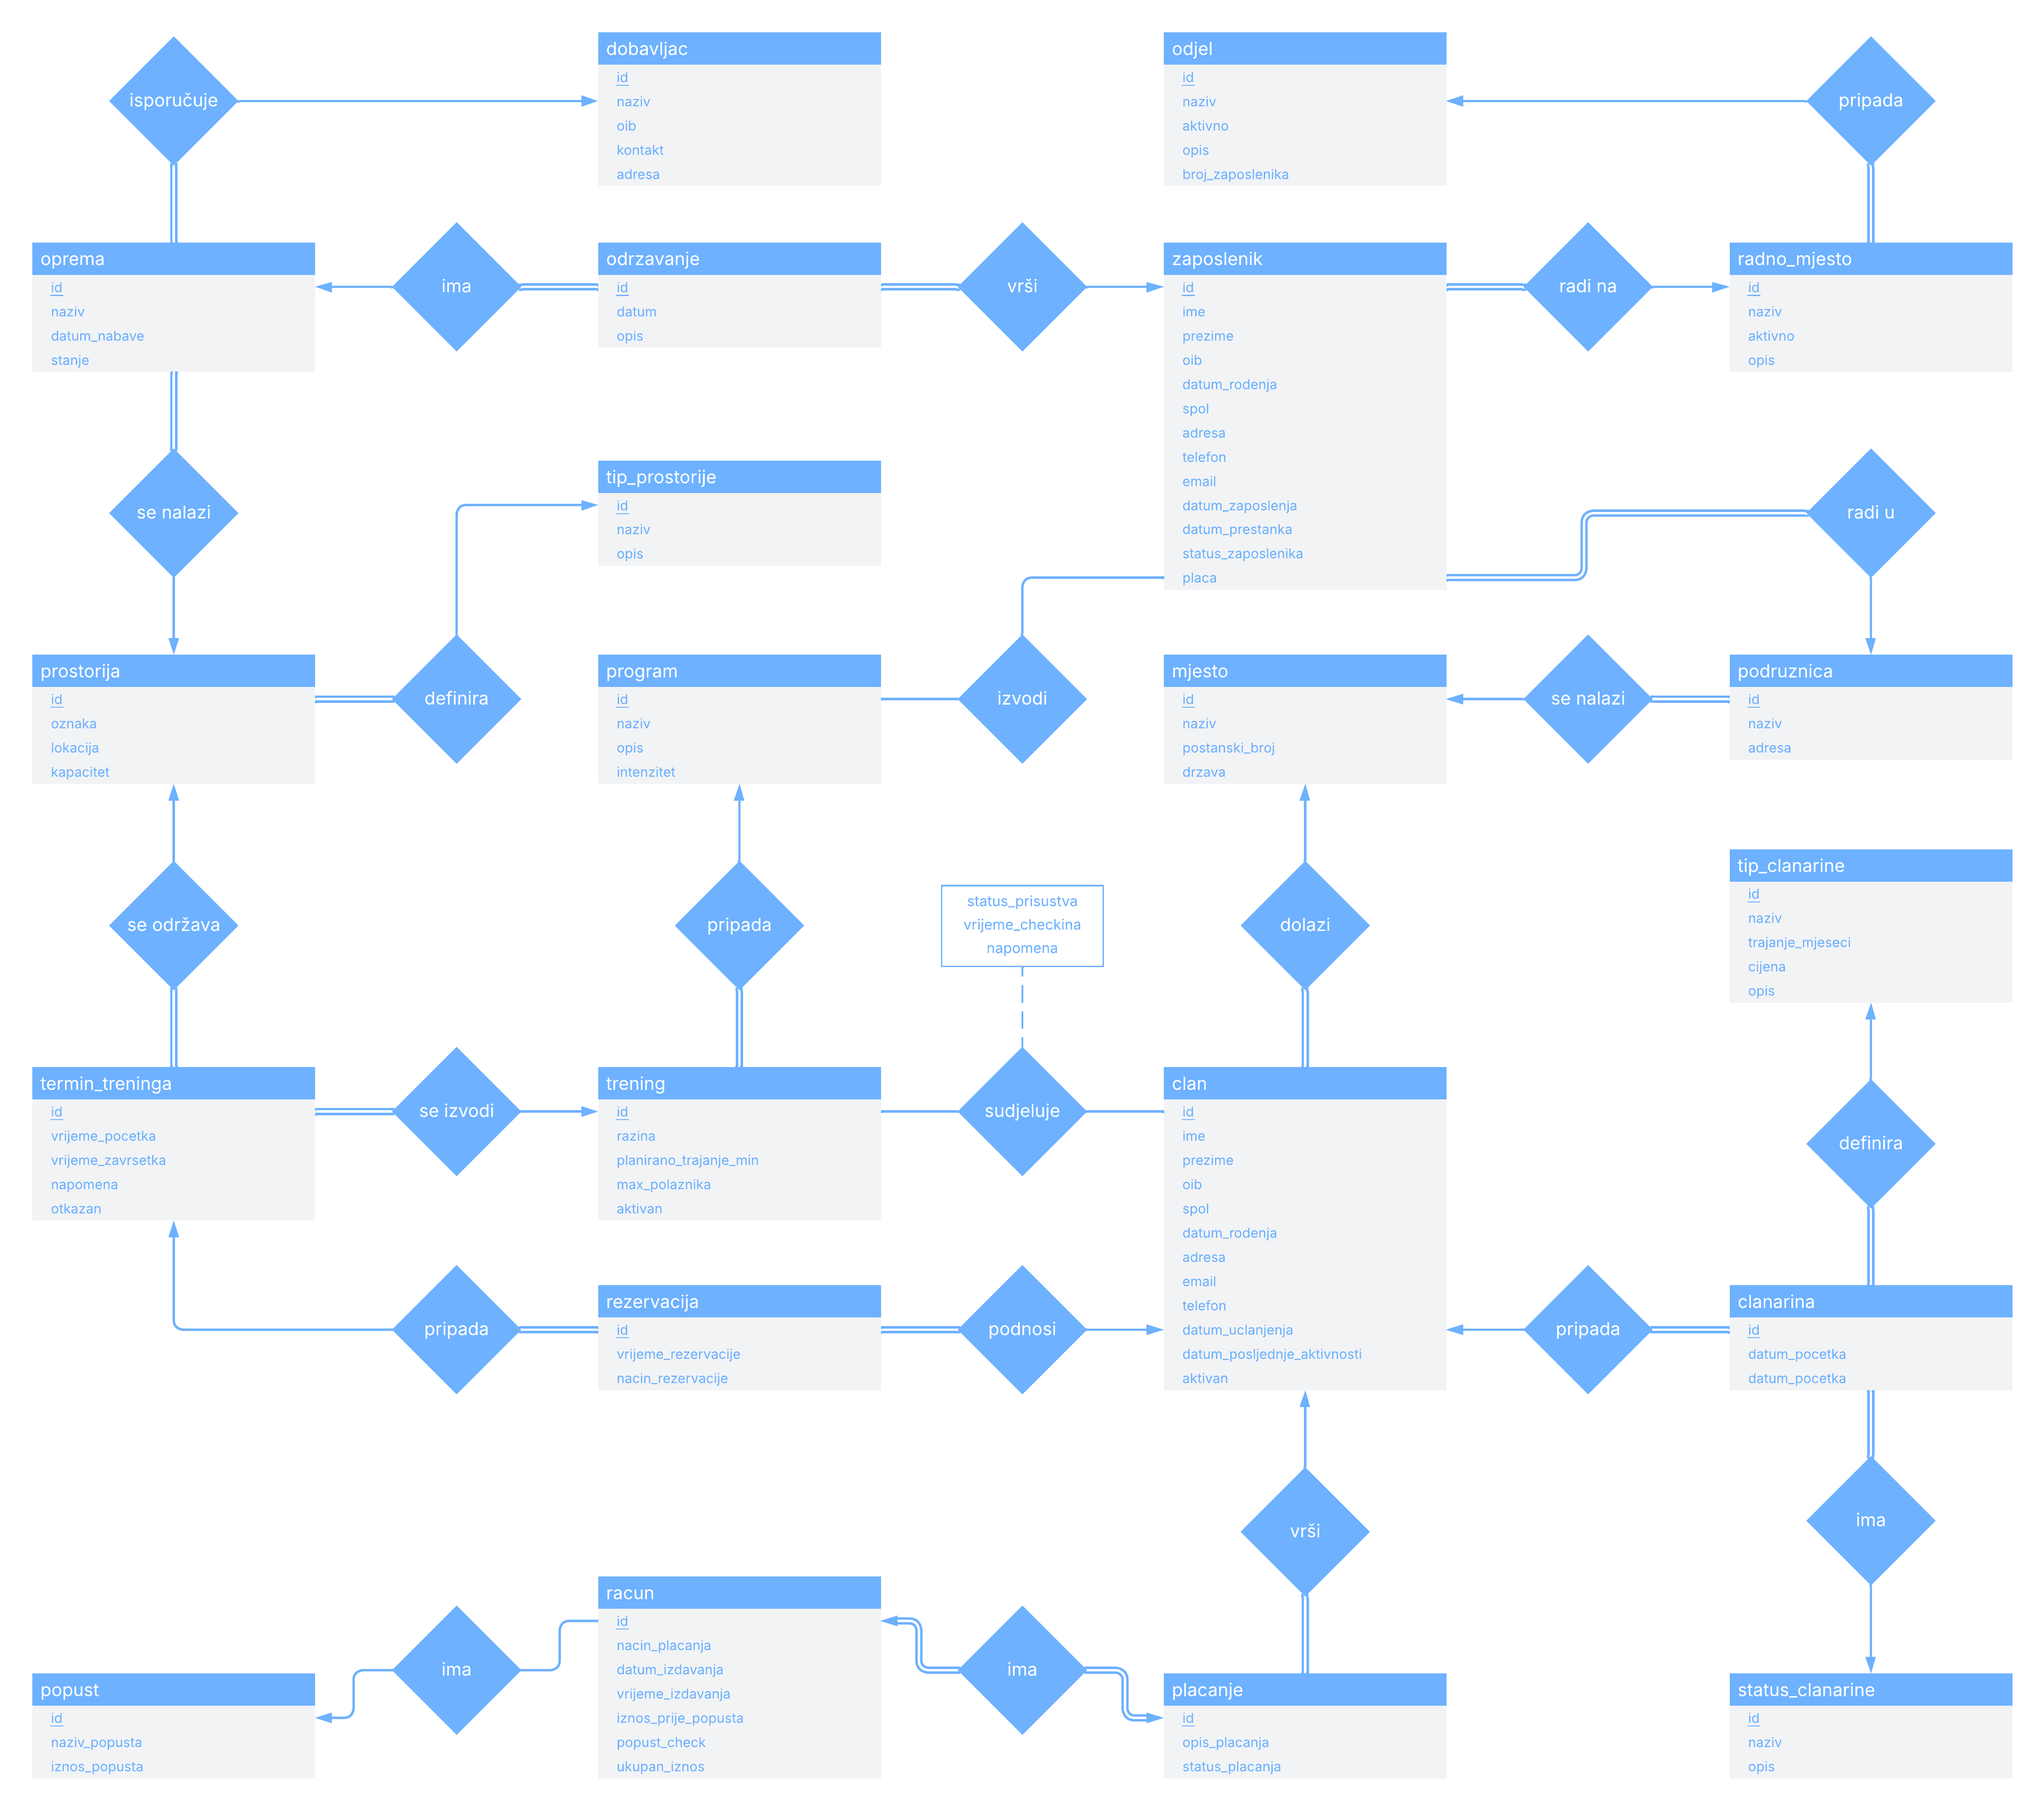
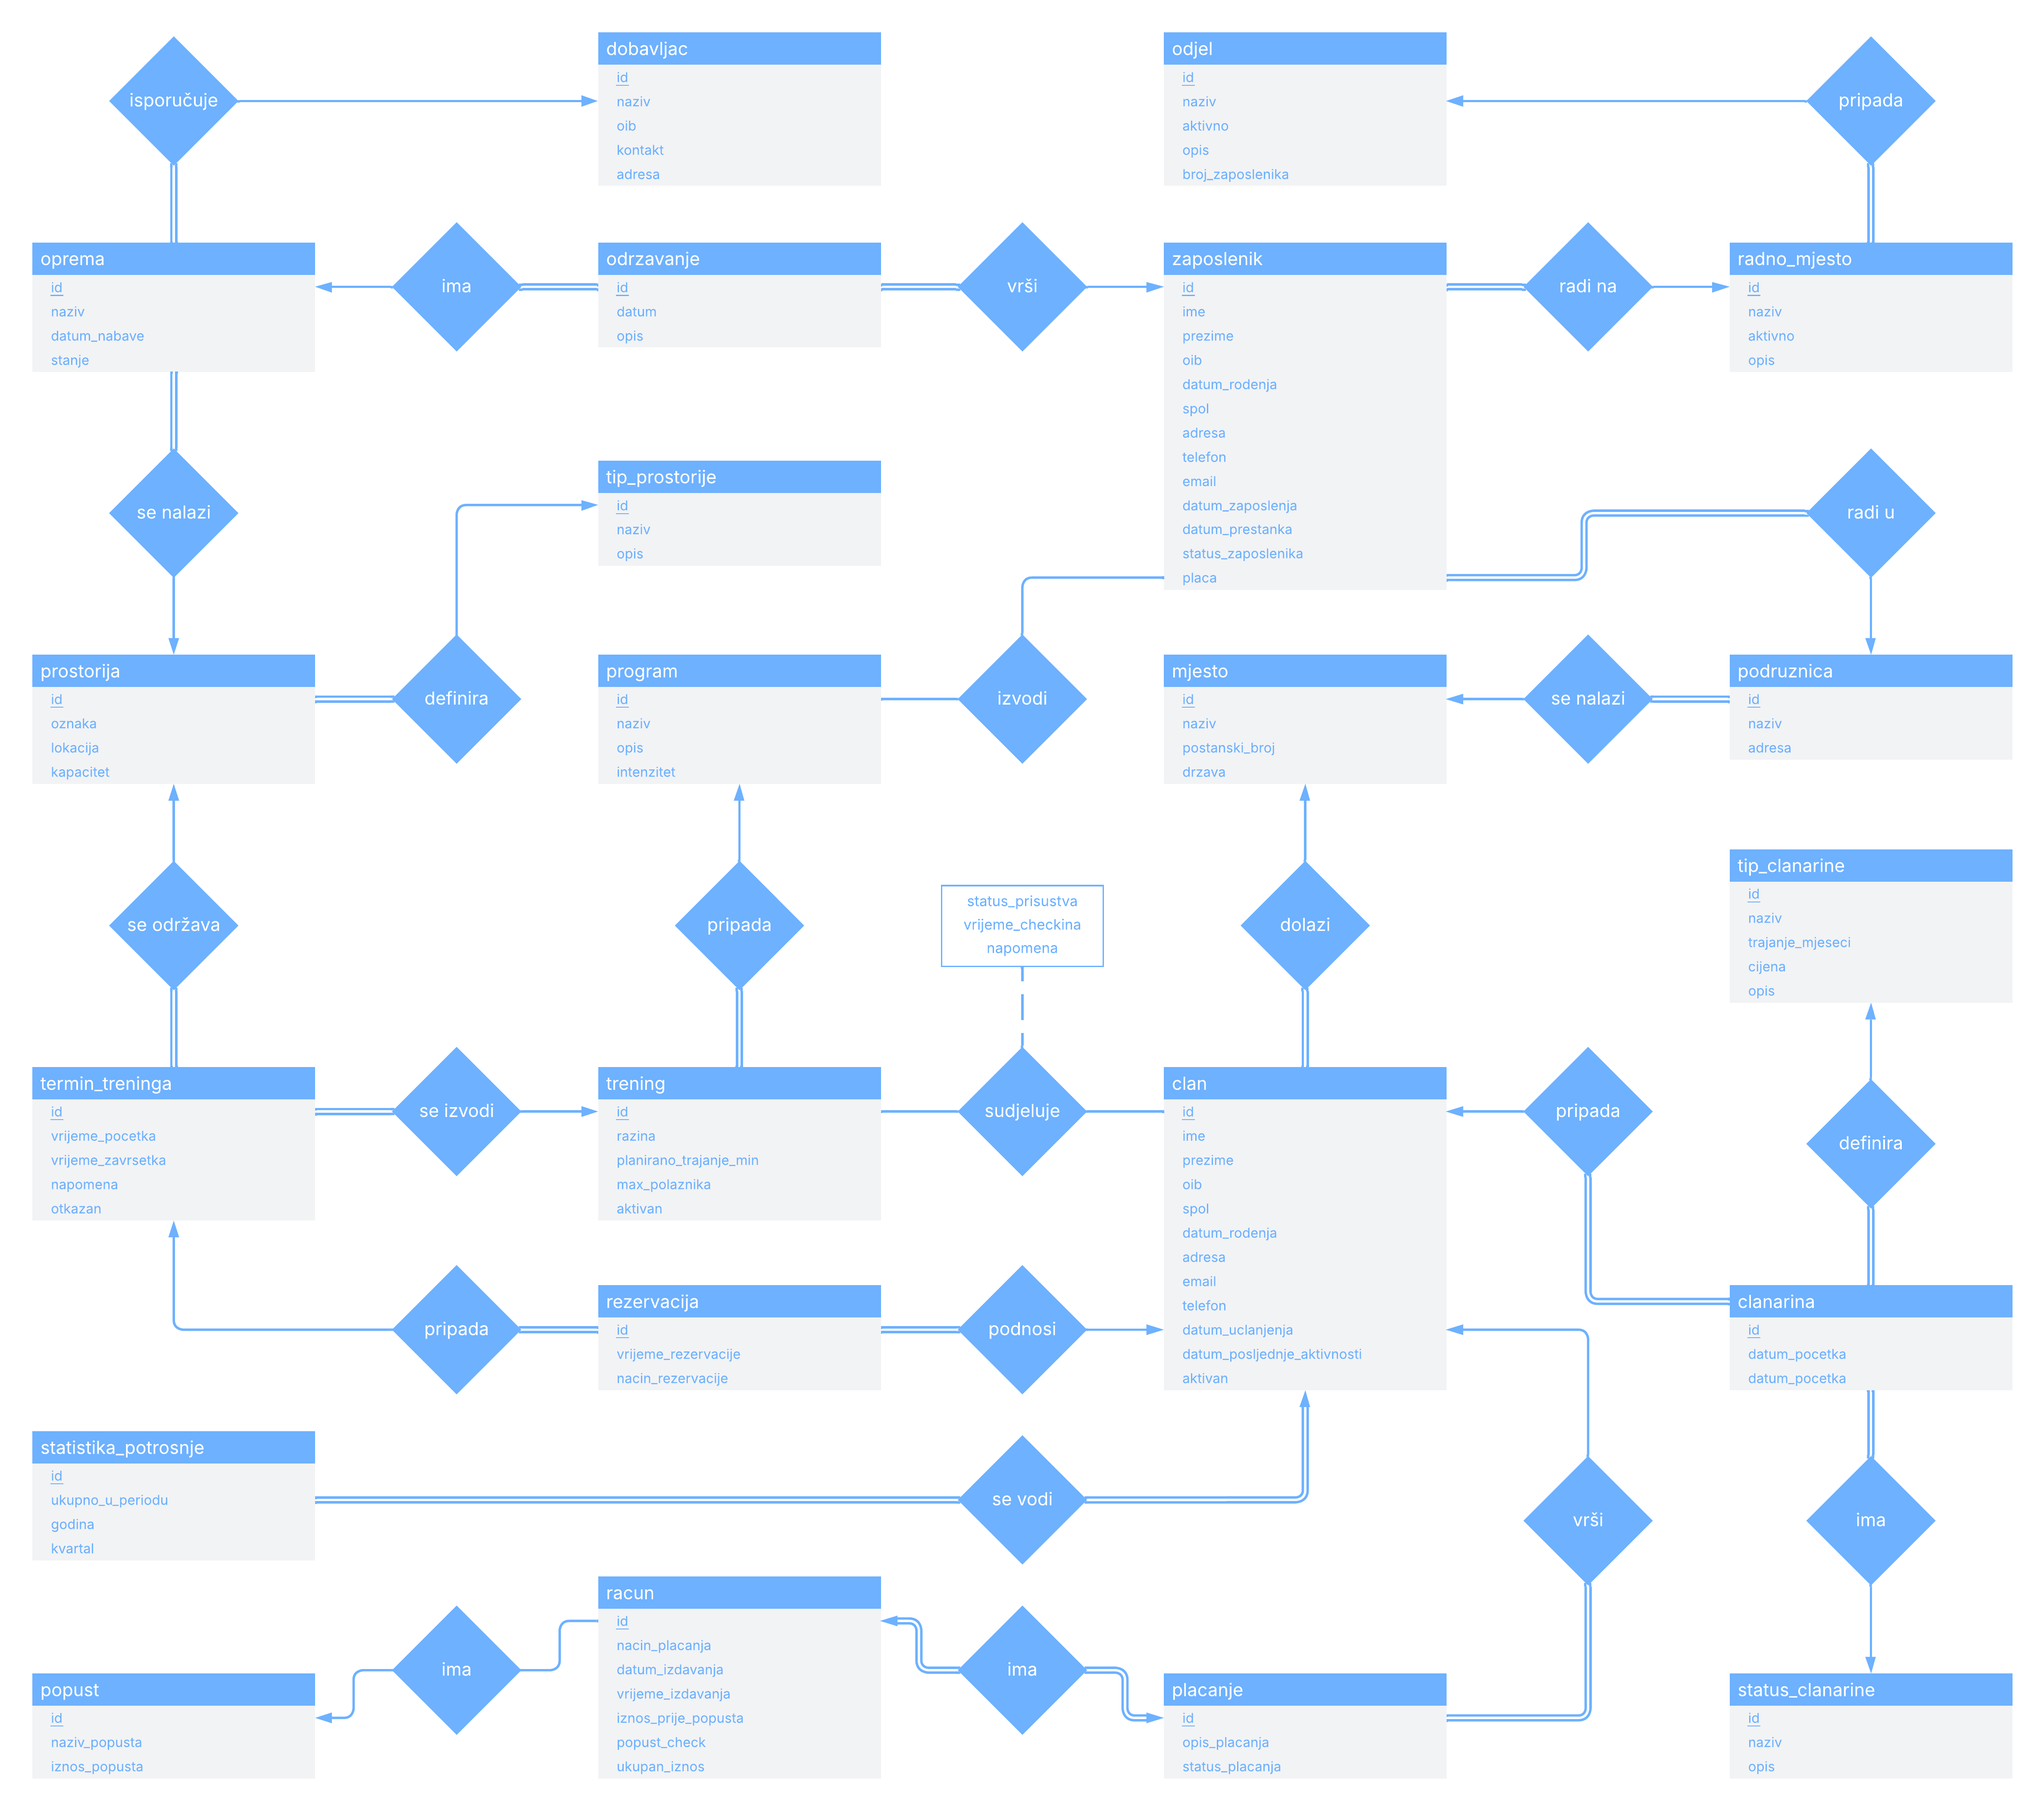
Korigiran ER dijagram i glavna dokumentacija

diff --git a/dokumentacija.md b/dokumentacija.md
@@ -62,7 +62,7 @@ Cilj ovog projekta je izrada baze podataka u sklopu kolegija Baze podataka 2 pri
 | `clan` ⬅ `clanarina`              | N:1 | • Jedan član može imati više članarina <br/> • Jedna članarina pripada samo jednom članu |
 | `tip_clanarine` ⬅ `clanarina`     | N:1 | • Jedan tip članarine može definirati više članarina <br/> • Jedna članarina definirana je točno jednim tipom članarine |
 | `status_clanarine` ⬅ `clanarina`  | N:1 | • Jedan status članarine može biti dodijeljen na više članarina <br/> • Jedna članarina može imati dodijeljen samo jedan status članarine |
-| `statistika_potrosnje` ⬅ `clan`  | N:1 | • Više statistika za jednog člana <br/> • Jedan član ima više statistika |
+| `statistika_potrosnje` ⬅ `clan`   | N:1 | • Za jednog člana može se voditi više zapisa statististike potrošnje <br/> • Jedan zapis statistike potrošnje vodi se za točno jednog člana |
 | `clan` ⬅ `placanje`               | N:1 | • Jedan član može izvšiti više plaćanja <br/> • Jedno plaćanje vrši točno jedan član |
 | `placanje` ↔ `racun`              | 1:1 | • Jedno plaćanje vezuje se s jednim računom <br/> • Jedan račun odnosi se na točno jedno plaćanje |
 | `popust` ⬅ `racun`                | N:1 | • Jedan popust može biti dodijeljen na više računa <br/> • Jedan račun može imati samo jedan popust |
@@ -88,31 +88,31 @@ Cilj ovog projekta je izrada baze podataka u sklopu kolegija Baze podataka 2 pri
 
 | Tablica | Atributi |
 |---------|----------|
-| `clan`           	 | `id`, `ime`, `prezime`, `oib`, `spol`, `datum_rodenja`, `id_mjesto`, `adresa`, `email`, `telefon`, `datum_uclanjenja`, `datum_posljednje_aktivnosti`, `aktivan` |
-| `clanarina`      	 | `id`, `id_clan`, `id_tip`, `id_status`, `datum_pocetka`, `datum_zavrsetka` |
-| `tip_clanarine`  	 | `id`, `naziv`, `trajanje_mjeseci`, `cijena`, `opis` |
-| `status_clanarine` | `id`, `naziv`, `opis` |
+| `clan`           	     | `id`, `ime`, `prezime`, `oib`, `spol`, `datum_rodenja`, `id_mjesto`, `adresa`, `email`, `telefon`, `datum_uclanjenja`, `datum_posljednje_aktivnosti`, `aktivan` |
+| `clanarina`      	     | `id`, `id_clan`, `id_tip`, `id_status`, `datum_pocetka`, `datum_zavrsetka` |
+| `tip_clanarine`  	     | `id`, `naziv`, `trajanje_mjeseci`, `cijena`, `opis` |
+| `status_clanarine`     | `id`, `naziv`, `opis` |
 | `statistika_potrosnje` | `id`, `id_clan`, `ukupno_u_periodu`, `godina`, `kvartal` |
-| `mjesto` | `id`, `naziv`, `postanski_broj`, `drzava` |
-| `placanje`       	 | `id`, `id_clan`, `id_racun`, `opis_placanja`, `status_placanja` |
-| `racun`          	 | `id`, `id_popusta`, `nacin_placanja`, `datum_izdavanja`, `vrijeme_izdavanja`, `iznos_prije_popusta`, `popust_check`, `ukupan_iznos` |
-| `popust`         	 | `id`, `naziv_popusta`, `iznos_popusta` |
-| `rezervacija`    	 | `id`, `clan_id`, `termin_treninga_id`, `vrijeme_rezervacije`, `nacin_rezervacije` |
-| `trening_clan`   	 | `id`, `termin_treninga_id`, `clan_id`, `status_prisustva`, `vrijeme_checkina`, `napomena` |
-| `trening`        	 | `id`, `program_id`, `razina`, `planirano_trajanje_min`, `max_polaznika`, `aktivan` |
-| `mjesto`         	 | `id`, `naziv`, `postanski_broj`, `drzava` |
-| `podruznica`     	 | `id`, `naziv`, `adresa`, `id_mjesto` |
-| `zaposlenik`     	 | `id`, `ime`, `prezime`, `oib`, `datum_rodenja`, `spol`, `adresa`, `id_mjesto`, `telefon`, `email`, `datum_zaposlenja`, `datum_prestanka`, `status_zaposlenika`, `placa`, `id_radno_mjesto`, `id_podruznica` |
-| `radno_mjesto`   	 | `id`, `naziv`, `aktivno`, `opis`, `id_odjel` |
-| `odjel`          	 | `id`, `naziv`, `aktivno`, `opis`, `broj_zaposlenika` |
-| `trener_program` 	 | `id`, `trener_id`, `program_id` |
-| `program`        	 | `id`, `naziv`, `opis`, `intenzitet` |
-| `termin_treninga`	 | `id`, `trening_id`, `prostorija_id`, `trener_id`, `vrijeme_pocetka`, `vrijeme_zavrsetka`, `napomena`, `otkazan` |
-| `prostorija`     	 | `id`, `oznaka`, `lokacija`, `kapacitet`, `tip_prostorije_id`, `podruznica_id` |
-| `tip_prostorije` 	 | `id`, `naziv`, `opis` |
-| `oprema`         	 | `id`, `naziv`, `prostorija_id`, `dobavljac_id`, `datum_nabave`, `stanje` |
-| `dobavljac`      	 | `id`, `naziv`, `oib`, `kontakt`, `adresa` |
-| `odrzavanje`     	 | `id`, `oprema_id`, `zaposlenik_id`, `datum`, `opis` |
+| `mjesto`               | `id`, `naziv`, `postanski_broj`, `drzava` |
+| `placanje`       	     | `id`, `id_clan`, `id_racun`, `opis_placanja`, `status_placanja` |
+| `racun`          	     | `id`, `id_popusta`, `nacin_placanja`, `datum_izdavanja`, `vrijeme_izdavanja`, `iznos_prije_popusta`, `popust_check`, `ukupan_iznos` |
+| `popust`         	     | `id`, `naziv_popusta`, `iznos_popusta` |
+| `rezervacija`    	     | `id`, `clan_id`, `termin_treninga_id`, `vrijeme_rezervacije`, `nacin_rezervacije` |
+| `trening_clan`   	     | `id`, `termin_treninga_id`, `clan_id`, `status_prisustva`, `vrijeme_checkina`, `napomena` |
+| `trening`        	     | `id`, `program_id`, `razina`, `planirano_trajanje_min`, `max_polaznika`, `aktivan` |
+| `mjesto`         	     | `id`, `naziv`, `postanski_broj`, `drzava` |
+| `podruznica`     	     | `id`, `naziv`, `adresa`, `id_mjesto` |
+| `zaposlenik`     	     | `id`, `ime`, `prezime`, `oib`, `datum_rodenja`, `spol`, `adresa`, `id_mjesto`, `telefon`, `email`, `datum_zaposlenja`, `datum_prestanka`, `status_zaposlenika`, `placa`, `id_radno_mjesto`, `id_podruznica` |
+| `radno_mjesto`   	     | `id`, `naziv`, `aktivno`, `opis`, `id_odjel` |
+| `odjel`          	     | `id`, `naziv`, `aktivno`, `opis`, `broj_zaposlenika` |
+| `trener_program` 	     | `id`, `trener_id`, `program_id` |
+| `program`        	     | `id`, `naziv`, `opis`, `intenzitet` |
+| `termin_treninga`	     | `id`, `trening_id`, `prostorija_id`, `trener_id`, `vrijeme_pocetka`, `vrijeme_zavrsetka`, `napomena`, `otkazan` |
+| `prostorija`     	     | `id`, `oznaka`, `lokacija`, `kapacitet`, `tip_prostorije_id`, `podruznica_id` |
+| `tip_prostorije` 	     | `id`, `naziv`, `opis` |
+| `oprema`         	     | `id`, `naziv`, `prostorija_id`, `dobavljac_id`, `datum_nabave`, `stanje` |
+| `dobavljac`      	     | `id`, `naziv`, `oib`, `kontakt`, `adresa` |
+| `odrzavanje`     	     | `id`, `oprema_id`, `zaposlenik_id`, `datum`, `opis` |
 
 # EER DIJAGRAM (MySQL Workbench)
 
